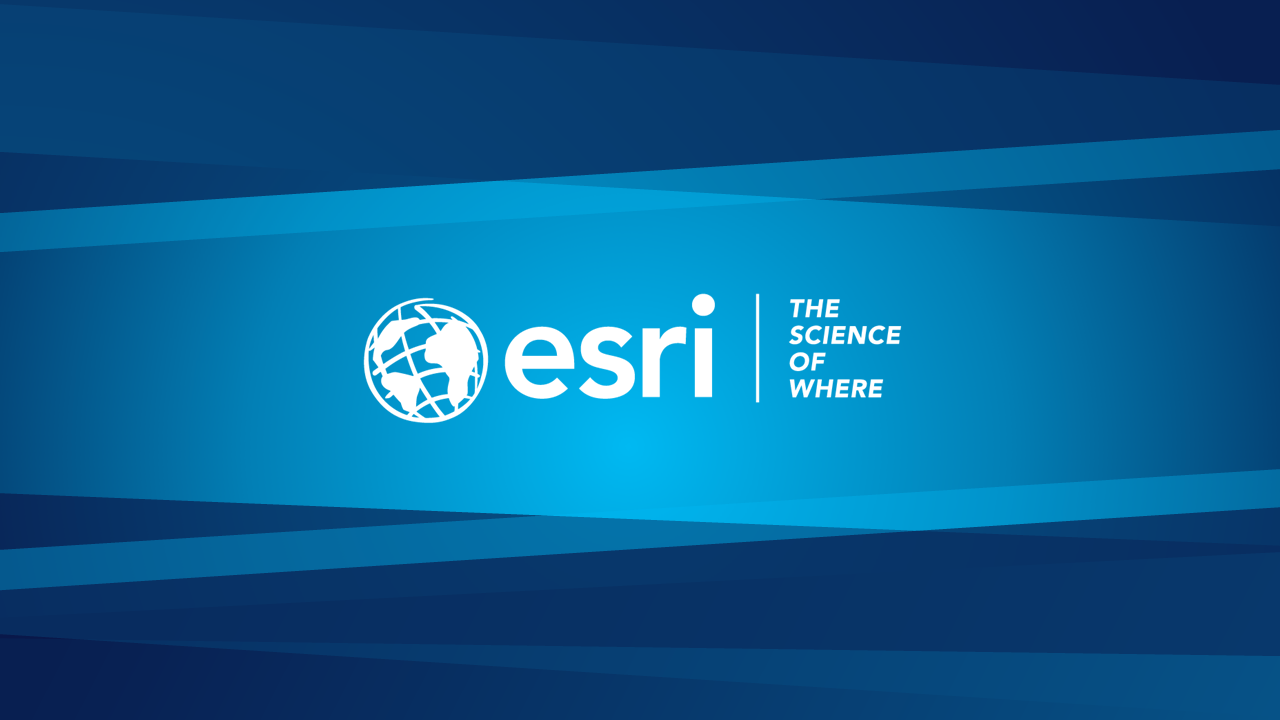
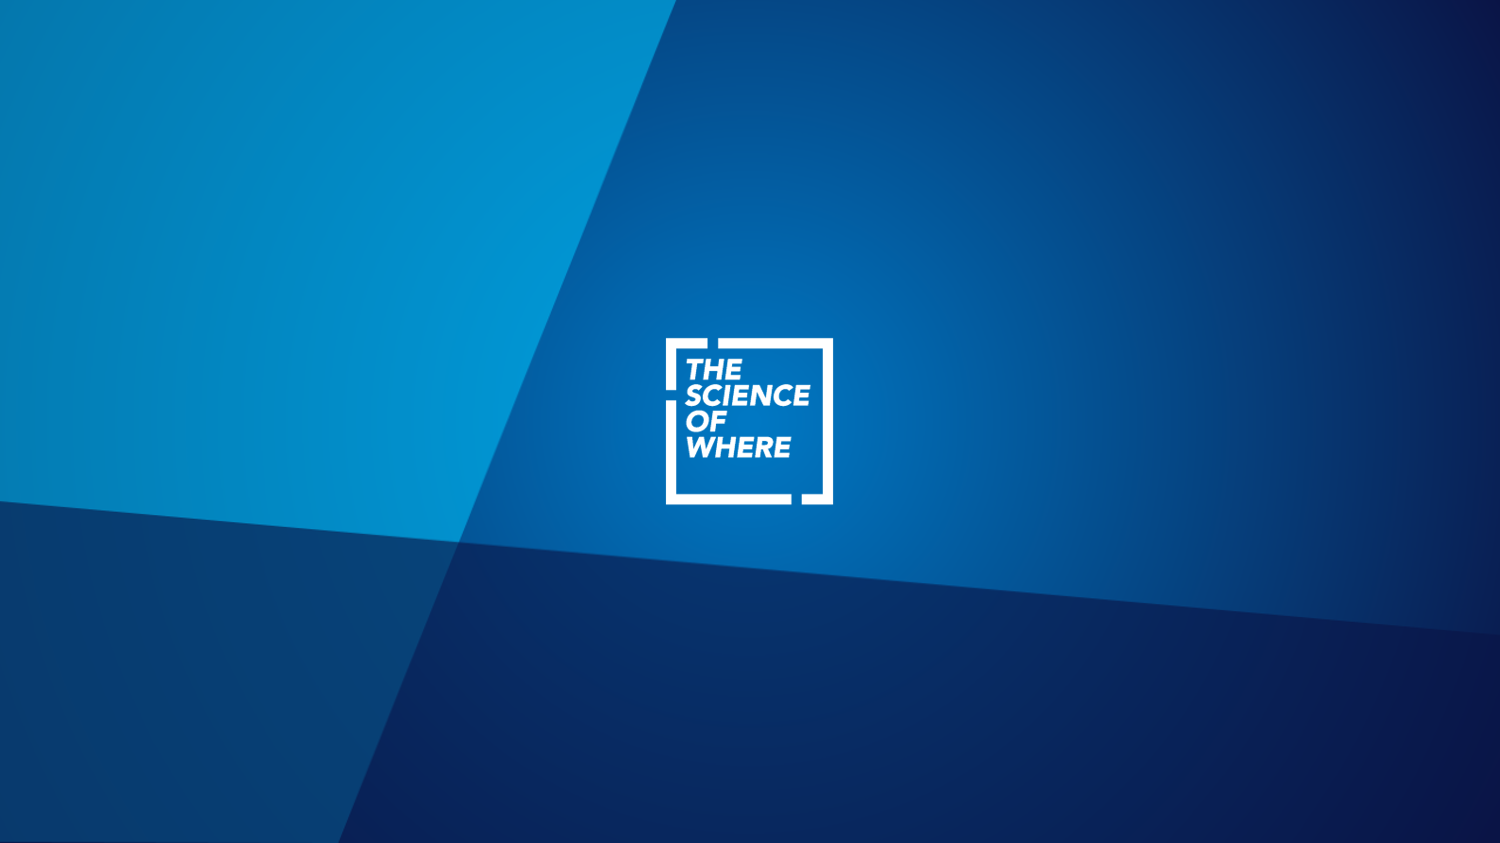
devsession2017: slide updates

diff --git a/2017-gcf/template/theme-devsummit-2017.css b/2017-gcf/template/theme-devsummit-2017.css
@@ -36,7 +36,19 @@ section.has-light-background, section.has-light-background h1, section.has-light
   background-image: url(end.png);
 }
 
+.reveal .slide-background.geodev {
+  background-image: url(geodev.png);
+}
 
+.geodev-logo {
+  position: absolute;
+  bottom: 0;
+  right: 0;
+  z-index: 1;
+  height: 100px;
+  margin: 20px;
+  opacity: 0.9;
+}
 
 body {
   background: rgb(27, 27, 27);

diff --git a/2017-gcf/arcgis-developer-session/index.html b/2017-gcf/arcgis-developer-session/index.html
@@ -46,6 +46,7 @@
 	</head>
 
 	<body>
+		<a href="https://geodev.connpass.com/" target="_blank"><img class="geodev-logo" src="../template/geodev-logo.png"></a>
 
 		<div class="reveal">
 

diff --git a/2017-gcf/arcgis-developer-session/presentation.md b/2017-gcf/arcgis-developer-session/presentation.md
@@ -13,19 +13,15 @@ ESRIジャパン株式会社
 ## プログラム
 
 - ArcGIS Developer セッションとは
-  - 変遷
-  - 2017年のテーマ
-- GeoDev コミュニティの紹介
-  - ハッカソン
-  - GeoDev Meetup
-  - 外部コミュニティとのコラボ
+- 前半
+  - GeoDev コミュニティの紹介
   - GeoDev LT
 - BREAK
-- ArcGIS を使った開発
-  - 最新情報 - Esri DevSummit 2017
-  - ArcGIS を利用した開発のこれから
-  - 開発に困ったらどうする？
-
+- 後半
+  - ArcGIS を使った開発 -最新情報-
+  - ArcGIS Runtime SDK for Xamarin
+  - Esri スタートアップ プログラム
+- 終わりに
 ---
 
 <!-- .slide: class="section" -->
@@ -34,18 +30,18 @@ ESRIジャパン株式会社
 
 ---
 
-## 変遷
+## 歴史
 
 毎年開催しています。今年で 5 年目！
- - 2013 年：ソリューション開発事例
- - 2014 年：開発者のための GIS
- - 2015 年：マルチ プラットフォーム時代の最適な開発
- - 2016 年：クラウド ファースト時代の GIS アプリ開発事例
- - __2017 年：あなたも GeoDev コミュニティと一緒に成長しよう！__
+ - 2013 年：ソリューション開発__事例__
+ - 2014 年：__開発者__のための GIS
+ - 2015 年：__マルチ プラットフォーム__時代の最適な開発
+ - 2016 年：__クラウド ファースト__時代の GIS アプリ開発事例
+ - 2017 年：あなたも GeoDev __コミュニティ__と一緒に成長しよう！
 
 ---
 
-## 変遷
+## BREAK DEMO
 
 BREAK も毎年趣向を凝らしたデモを披露してます！
  - 2013 年：なし
@@ -56,15 +52,15 @@ BREAK も毎年趣向を凝らしたデモを披露してます！
 
 ---
 
-## 2017年のテーマ
+## 2017年のテーマ「コミュニティ」
 
 - あなたも GeoDev コミュニティと一緒に成長しよう！
   - GeoDev = Geo Developer
-  - GeoDev Meetup
-  - ハッカソン
-  - Twitter
-  - 開発ブログ（GeoNet）
-  - 外部コミュニティとのコラボ
+    - ミートアップ企画・運営
+    - ハッカソン支援・参加
+    - ソーシャルメディア（Twitter）
+    - 開発ブログ（GeoNet）
+    - 外部コミュニティとのコラボ
 
 ---
 
@@ -72,13 +68,13 @@ BREAK も毎年趣向を凝らしたデモを披露してます！
 
 ---
 
-## GeoDev Meetup
+## ミートアップ企画・運営（GeoDev Meetup）
 
 <img src="images/geodevmeetup.png" alt="GeoDev Meetup" style="max-height:600px;">
 
 ---
 
-## GeoDev Meetup
+## ミートアップ企画・運営（GeoDev Meetup）
 
 - もくもく会
 - LT (ライトニングトーク)
@@ -88,15 +84,17 @@ BREAK も毎年趣向を凝らしたデモを披露してます！
 
 ---
 
-## GeoDev Meetup
+## ミートアップ企画・運営（GeoDev Meetup）
 
 - 毎月開催
+  - 昨年 12 月から開始して 5 度開催
+    - [GeoDev Meetup #5 - 地図データ可視化・アプリ作成もくもく会](https://geodev.connpass.com/event/53652/)
 
 <img src="images/geodevmeetup_members.png" alt="GeoDev Meetup 参加メンバー" style="max-height:600px;">
 
 ---
 
-## ハッカソン
+## ハッカソン支援・参加
 
 - RESAS API ハッカソン（東京x2、島根、佐賀、岐阜）
 - 室蘭市観光ハッカソン
@@ -105,9 +103,24 @@ BREAK も毎年趣向を凝らしたデモを披露してます！
 
 ---
 
+## ハッカソン支援・参加
+
+- [MUROSARU](https://esrijapan.github.io/photospot-finder/)
+  - 室蘭市「企業・団体対抗 観光ハッカソン」公共クラウド賞
+  - 総務省「公共クラウドアプリコンテスト」優秀賞
+    - ArcGIS + Leaflet.js + React
+
+![MUROSARU](images/murosaru.png)
+
+---
+
 ## Twitter
 
-- #geodev_jp
+- [#geodev_jp](https://twitter.com/search?f=tweets&vertical=default&q=%23geodev_jp&src=savs)
+  - GeoDev Meetup 中継
+  - ブログ新規記事の案内
+  - その他いろいろ
+    - コミュニティでのオープンな情報共有にお使いください！
 
 <img src="images/twitter.png" alt="Twitter" style="max-height:600px;">
 
@@ -115,7 +128,7 @@ BREAK も毎年趣向を凝らしたデモを披露してます！
 
 ## 開発ブログ（GeoNet）
 
-- 弊社エンジニアが技術情報を発信しています！
+- [弊社エンジニアが技術情報を発信しています！](https://geonet.esri.com/groups/devcom-jp/overview)
 
 <img src="images/geonet.png" alt="GeoNet" style="max-height:600px;">
 
@@ -124,6 +137,7 @@ BREAK も毎年趣向を凝らしたデモを披露してます！
 ## 外部コミュニティとのコラボ
 
 - JXUG（Xamarin）
+  - [JXUG Xamarin ハンズオン！ ArcGIS を利用した地図アプリ開発](https://jxug.connpass.com/event/50809/)
 
 <img src="images/jxug_geodev.png" alt="JXUG x GeoDev" style="max-height:600px;">
 
@@ -135,10 +149,10 @@ BREAK も毎年趣向を凝らしたデモを披露してます！
 
 ## GeoDev LT
 
-- 「Tsuredatsu」
-  - RESAS x Japan Hackathon 最優秀賞
+- 「Tsuredatsu（つれだつ）」
+  - [RESAS x Japan Hackathon](https://eventdots.jp/event/609481) 最優秀賞
   - 現在は事業化に向けてプロジェクト進行中！
-    - @Startup Hub Tokyo
+    - [@Startup Hub Tokyo](https://startuphub.tokyo/)（東京都が運営する起業支援施設）
 
 <img src="images/tsuredatsu.png" alt="Tsuredatsu" style="max-height:600px;">
 
@@ -316,7 +330,7 @@ BREAK も毎年趣向を凝らしたデモを披露してます！
 
 ## スタートアップ企業の成長をサポート
 
- - Esri スタートアップ・プログラムは、スタートアップ企業が手がける製品・サービスに、より高度なマッピングや位置情報サービスを組み込むことで企業の成長を加速する3年間の支援プログラム
+- Esri スタートアップ・プログラムは、スタートアップ企業が手がける製品・サービスに、より高度なマッピングや位置情報サービスを組み込むことで企業の成長を加速する3年間の支援プログラム
 
 ![Esri Startup Program](images/startup_contents.png)
 
@@ -337,20 +351,28 @@ BREAK も毎年趣向を凝らしたデモを披露してます！
 
 ---
 
-# まとめ
+# 終わりに
 
 ---
 
-## Esri Leaflet (OSS)
-- [MUROSARU](https://esrijapan.github.io/photospot-finder/)
-  - 室蘭市で開催された「企業・団体対抗 観光ハッカソン」に参加し、公共クラウド賞を受賞
-  - ArcGIS + Leaflet.js + React
+<!-- .slide: class="geodev" -->
 
-![MUROSARU](images/murosaru.png)
+## GeoDev の今後
+
+- GeoDev Meetup を全国に広めたい
+  - 誰でも GeoDev イベントを開催できるようにガイダンス作ります！
+  - 主催したい方がいれば私たちがサポートします！
+- スタートアップや IoT といった新規領域でのアイデア共有
+  - IoT x GIS Meetup？
 
 ---
 
-# 開発に困ったらどうする？
+
+<!-- .slide: class="end" -->
+
+---
+
+# おまけ：開発に困ったらどうする？
 
 ---
 
@@ -372,11 +394,7 @@ BREAK も毎年趣向を凝らしたデモを披露してます！
 
 ## コミュニティ
 - GeoNet（Esri/ESRIジャパン）
-  - ESRIジャパン社員による技術 Tips や活動報告
+- GeoDev Meetup
 
 [![GeoNet](images/esrijapan_geonet.png)](https://geonet.esri.com/groups/devcom-jp)
 
----
-
-
-<!-- .slide: class="end" -->
